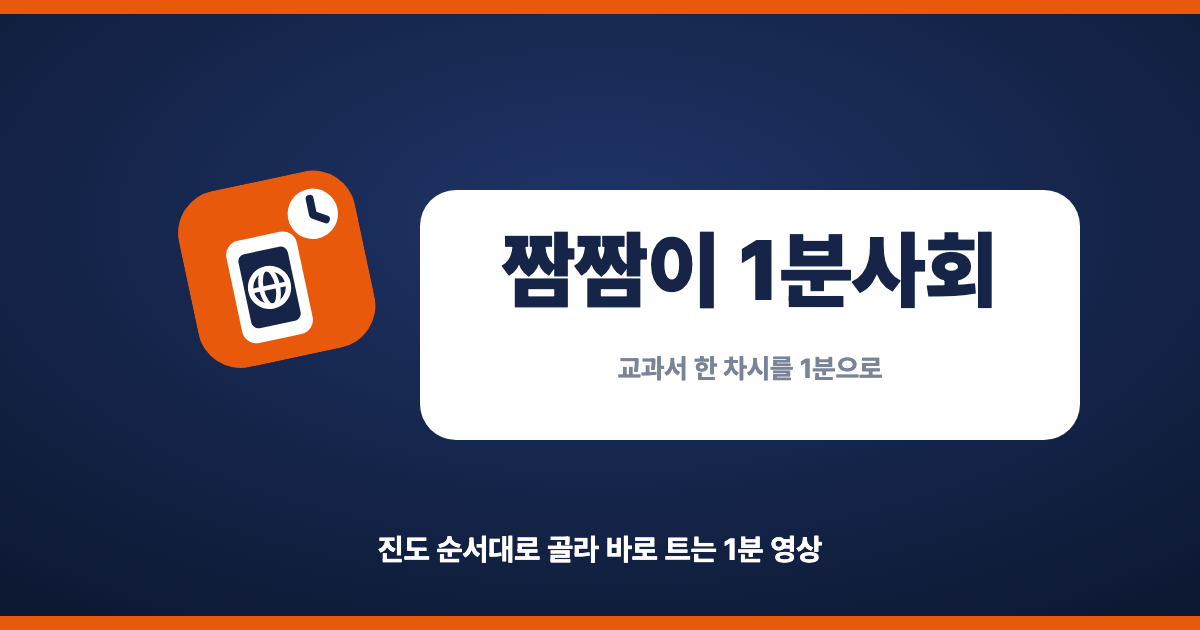
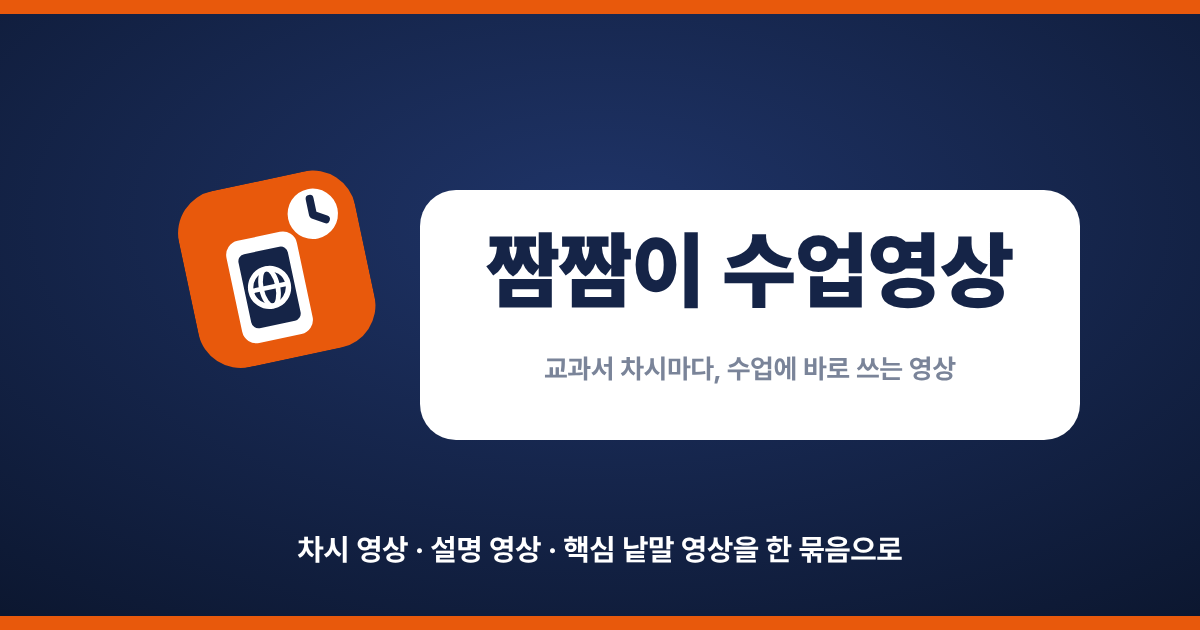
feat(1min): 사이트 이름을 '짬짬이 수업영상'으로 — 수업용 영상 자료로 주제 변경 (#64)
차시마다 설명 영상(16:9, 5~8분)과 핵심 낱말 영상이 붙으면서 이 사이트는
자투리 시간에 트는 1분 영상 모음이 아니라 차시 수업 안에서 쓰는 영상 자료가 됐다.
이름과 소개 문구를 그 쓰임에 맞춘다.

- 이름: 짬짬이 1분사회 → 짬짬이 수업영상
- 한 줄 소개: 교과서 차시마다, 수업에 바로 쓰는 영상
- 제목·설명·공유 미리보기(og/twitter)·manifest·헤더·띠·꼬리말·README
- 공유 카드(og-image)를 gen-og 로 다시 굽고 og:image 에 ?v=2
- 재생목록의 차시 영상 설명 '차시 전체를 1분으로' → '차시 내용을 1분으로 요약'
  ('훑어보기'는 사이트 글꼴 서브셋에 '훑'이 없어 쓰지 않았다)

그대로 둔 것: 주소 jjam-1min(즐겨찾기), 브라우저 저장 키 jjam1min:*(선생님들이
고른 출판사·학년이 풀리지 않게), data-site="1min", 유튜브 채널 이름(실제 채널명).

헤더 바로가기 이름(game/shared → 일곱 사이트 모두 배포)과 모아보기 카드(home/,
고치는 즉시 배포)는 이 사이트 발행을 확인한 뒤 따로 바꾼다(CLAUDE.md 규칙 2).

Claude-Session: https://claude.ai/code/session_011ChbLu6m5zLFMio2mJUXn4

Changed region(s): [[0.4008, 0.3619, 0.8633, 0.5127], [0.2467, 0.8444, 0.7708, 0.9048], [0.4317, 0.5429, 0.8017, 0.6032]]

diff --git a/1min/index.html b/1min/index.html
@@ -3,22 +3,22 @@
 <head>
   <meta charset="UTF-8" />
   <meta name="viewport" content="width=device-width, initial-scale=1.0" />
-  <title>짬짬이 1분사회 | 교과서 한 차시를 1분으로</title>
-  <meta name="description" content="교과서 차시를 1분 영상으로. 진도 순서대로 골라 수업 도입이나 자투리 시간에 바로 트는 선생님 전용 1분 영상 모음" />
+  <title>짬짬이 수업영상 | 교과서 차시마다, 수업에 바로 쓰는 영상</title>
+  <meta name="description" content="교과서 진도 순서대로 차시를 고르면 그 차시 수업에 쓸 영상이 한 묶음으로 나옵니다. 차시 영상·설명 영상·핵심 낱말 영상을 이어서 바로 트세요. 설치·로그인 없음." />
   <meta property="og:type" content="website" />
   <meta property="og:site_name" content="짬짬이 교실" />
   <meta property="og:locale" content="ko_KR" />
-  <meta property="og:title" content="짬짬이 1분사회 — 교과서 한 차시를 1분으로" />
-  <meta property="og:description" content="교과서 차시를 1분 영상으로. 진도 순서대로 골라 수업 도입이나 자투리 시간에 바로 트세요. 설치·로그인 없음." />
+  <meta property="og:title" content="짬짬이 수업영상 — 교과서 차시마다, 수업에 바로 쓰는 영상" />
+  <meta property="og:description" content="교과서 진도 순서대로 차시를 고르면 그 차시 수업에 쓸 영상이 한 묶음으로 나옵니다. 차시 영상·설명 영상·핵심 낱말 영상을 이어서 바로 트세요. 설치·로그인 없음." />
   <meta property="og:url" content="https://shway81-droid.github.io/jjam-1min/" />
-  <meta property="og:image" content="https://shway81-droid.github.io/jjam-1min/og-image.png" />
+  <meta property="og:image" content="https://shway81-droid.github.io/jjam-1min/og-image.png?v=2" />
   <meta property="og:image:width" content="1200" />
   <meta property="og:image:height" content="630" />
-  <meta property="og:image:alt" content="짬짬이 1분사회 — 교과서 한 차시를 1분으로" />
+  <meta property="og:image:alt" content="짬짬이 수업영상 — 교과서 차시마다, 수업에 바로 쓰는 영상" />
   <meta name="twitter:card" content="summary_large_image" />
-  <meta name="twitter:title" content="짬짬이 1분사회 — 교과서 한 차시를 1분으로" />
-  <meta name="twitter:description" content="교과서 차시를 1분 영상으로. 진도 순서대로 골라 바로 트세요." />
-  <meta name="twitter:image" content="https://shway81-droid.github.io/jjam-1min/og-image.png" />
+  <meta name="twitter:title" content="짬짬이 수업영상 — 교과서 차시마다, 수업에 바로 쓰는 영상" />
+  <meta name="twitter:description" content="진도 순서대로 차시를 고르면, 그 차시 수업에 쓸 영상이 한 묶음으로." />
+  <meta name="twitter:image" content="https://shway81-droid.github.io/jjam-1min/og-image.png?v=2" />
   <link rel="icon" href="favicon.svg" />
   <link rel="manifest" href="manifest.json" />
   <link rel="apple-touch-icon" href="assets/icons/apple-touch-icon.png" />
@@ -73,11 +73,11 @@
   </svg>
 
   <header class="topbar">
-    <a class="brand" href="./" aria-label="짬짬이 1분사회 홈">
+    <a class="brand" href="./" aria-label="짬짬이 수업영상 홈">
       <img class="brand-logo" src="favicon.svg" alt="" width="40" height="40" />
       <span class="brand-text">
-        <b>짬짬이 1분사회</b>
-        <small>교과서 한 차시를 1분으로</small>
+        <b>짬짬이 수업영상</b>
+        <small>교과서 차시마다, 수업에 바로 쓰는 영상</small>
       </span>
     </a>
     <div class="topbar-actions">
@@ -89,7 +89,7 @@
 
   <div class="cta-strip">
     <p class="cta-copy">
-      <b>수업 도입에도, 자투리 시간에도.</b>
+      <b>이 차시 수업에 쓸 영상을 한 번에.</b>
       차시 영상 <b id="ctaCount">0</b>편 · 설명 영상 <b id="ctaExplain">0</b>편 · 핵심 낱말 영상 <b id="ctaWords">0</b>편 · 설치 없음 · 로그인 없음
     </p>
   </div>
@@ -141,7 +141,7 @@
   </main>
 
   <footer class="footer">
-    <p>짬짬이 1분사회 · 교과서 차시를 1분으로 · <span id="footCount"></span></p>
+    <p>짬짬이 수업영상 · 교과서 차시마다, 수업에 바로 쓰는 영상 · <span id="footCount"></span></p>
     <p class="footer-note">영상은 NotebookLM 으로 만들고 사람이 교과서와 대조했습니다. 화면과 내레이션은 AI 생성물입니다.</p>
   </footer>
 

diff --git a/1min/app.js b/1min/app.js
@@ -1,11 +1,11 @@
 /* ===================================================================
-   짬짬이 1분사회 — 런처
+   짬짬이 수업영상 — 런처 (예전 이름 짬짬이 1분사회, 주소는 jjam-1min 그대로)
    ===================================================================
    탐색축은 교과서 진도 순서다(단원 → 차시). 선생님이 찾는 것은 "내일 나가는
    그 차시" 하나이고, 그건 필터보다 목차가 빠르다.
 
    한 차시에는 영상이 여러 편 있다.
-     · 차시 영상   — 차시 전체를 1분으로 (youtubeId)
+     · 차시 영상   — 차시 내용을 1분으로 요약 (youtubeId)
      · 설명 영상   — 차시 전체를 가로 화면으로 자세히 (explainVideo, 16:9)
      · 핵심 낱말 영상 — 그 차시의 핵심 낱말 3개를 1분씩 (wordVideos)
    그래서 목록은 차시마다 한 줄로 그리고, 카드를 열지 않아도 낱말이 보이게 한다.
@@ -462,8 +462,8 @@
 
   function playlistOf(L) {
     var X = explain(L);
-    return [{ kind: 'lesson', id: L.youtubeId, sec: L.seconds, title: '차시 영상', sub: '차시 전체를 1분으로', meaning: L.summary }]
-      .concat(X ? [{ kind: 'explain', id: X.youtubeId, sec: X.seconds, title: '설명 영상', sub: '차시 전체를 가로 화면으로 자세히', wide: true }] : [])
+    return [{ kind: 'lesson', id: L.youtubeId, sec: L.seconds, title: '차시 영상', sub: '차시 내용을 1분으로 요약', meaning: L.summary }]
+      .concat(X ? [{ kind: 'explain', id: X.youtubeId, sec: X.seconds, title: '설명 영상', sub: '차시 내용을 가로 화면으로 자세히', wide: true }] : [])
       .concat(words(L).map(function (w) {
         return { kind: 'word', id: w.youtubeId, sec: w.seconds, title: w.word, sub: w.meaning || '', meaning: w.meaning || '' };
       }));

diff --git a/1min/style.css b/1min/style.css
@@ -1,5 +1,5 @@
 /* ===================================================================
-   짬짬이 1분사회 — 클린 클래스룸 + 소프트 3D
+   짬짬이 수업영상 — 클린 클래스룸 + 소프트 3D
    짬짬이 게임·영상의 디자인 언어를 잇는다:
    네이비 헤더 + 밝은 본문(#F5F7FA) + 화이트 카드 + 포인트 색
    이 사이트의 포인트 색은 번트 오렌지(#E8590C) — 다른 짬짬이와 구별된다.

diff --git a/1min/sw.js b/1min/sw.js
@@ -1,5 +1,5 @@
 /* ===================================================================
-   짬짬이 1분사회 — 오프라인 지원 서비스 워커
+   짬짬이 수업영상 — 오프라인 지원 서비스 워커
    ===================================================================
    전략 (짬짬이 영상과 같다)
    - 차시 목록(data/*.json) · 런처 HTML → Network-First

diff --git a/1min/README.md b/1min/README.md
@@ -1,24 +1,42 @@
-# ⏱ 짬짬이 1분사회
+# ⏱ 짬짬이 수업영상
 
-**내일 나가는 그 차시, 1분 영상으로 열어 주세요.** — 교과서 차시를 1분 세로 영상으로 압축한 선생님 전용 모음.
+**교과서 차시마다, 수업에 바로 쓰는 영상.** — 차시를 고르면 그 차시 수업에 쓸 영상이 한 묶음으로 나오는 선생님 전용 모음.
 
-[짬짬이 영상](https://shway81-droid.github.io/jjam-video/)이 "남은 시간에 뭐 틀지"를 해결한다면, 이 사이트는 **"지금 나가는 차시"**를 해결합니다. 그래서 필터를 늘어놓지 않고 **교과서 진도 순서**로 단원 → 차시를 그립니다. 선생님이 찾는 것은 차시 하나이고, 그건 필터보다 목차가 빠릅니다.
+> 예전 이름은 **짬짬이 1분사회**입니다. 처음에는 차시를 1분으로 줄여 수업 도입이나 자투리 시간에 트는 사이트였는데,
+> 설명 영상·핵심 낱말 영상이 붙으면서 **수업 안에서 쓰는 영상 자료**가 되어 이름을 바꿨습니다(2026-10).
+> 주소(`jjam-1min`)·유튜브 채널 핸들(`@jjam1min`)·브라우저 저장 키(`jjam1min:*`)는 즐겨찾기와 저장된 설정 때문에 그대로입니다.
+
+[짬짬이 영상](https://shway81-droid.github.io/jjam-video/)이 "남은 시간에 뭐 틀지"를 해결한다면, 이 사이트는 **"지금 가르치는 차시"**를 해결합니다. 그래서 필터를 늘어놓지 않고 **교과서 진도 순서**로 단원 → 차시를 그립니다. 선생님이 찾는 것은 차시 하나이고, 그건 필터보다 목차가 빠릅니다.
+
+## 🎞 한 차시에 들어 있는 영상
+
+차시를 열면 아래 영상이 **한 재생목록**으로 묶여 있고, 이어 보기를 켜 두면 끝날 때마다 다음 편으로 넘어갑니다.
+
+| 영상 | 길이 | 화면 | 쓰임 |
+|---|---|---|---|
+| **차시 영상** | 1분 안팎 | 세로(9:16) | 차시 내용을 1분으로 요약 |
+| **설명 영상** | 5~8분 | 가로(16:9) | 차시 내용을 자세히 설명 |
+| **핵심 낱말 영상** | 1분씩 | 세로(9:16) | 그 차시의 핵심 낱말을 하나씩 |
+
+설명 영상·핵심 낱말 영상은 차시마다 차례로 채우는 중이라 아직 없는 차시도 있습니다.
 
 빌드 단계 없는 순수 정적 사이트입니다. 설치·로그인 없이 브라우저에서 바로 동작합니다.
 
 ## ✨ 기능
 
-- **📖 교과서 진도 순서** — 단원 아래 차시 카드를 1번부터. 카드에 차시 번호와 길이가 찍혀 있습니다
+- **📖 교과서 진도 순서** — 출판사·교과·학년을 고르면 단원 아래 차시가 1번부터 한 줄씩. 차시마다 영상 길이가, 여러 편인 차시에는 편수와 전체 길이가 찍혀 있습니다
+- **▶ 차시 재생목록** — 차시 영상 → 설명 영상 → 핵심 낱말 영상을 이어서. ← → 키로도 넘깁니다
+- **🔤 낱말 사전** — 학년·학기의 핵심 낱말을 가나다순으로 모으고, 어느 교과서 몇 차시에 나오는지 함께 보여 줍니다
 - **🔍 검색** — 차시명·주제·핵심 낱말·단원 제목으로 찾기 ("고인돌", "3단원", "7차시" 모두 됩니다)
-- **📱 세로 그대로 재생** — 9:16 숏폼을 잘라내거나 레터박스 없이 가운데에 띄웁니다. 옆에 차시명·요약·핵심 낱말이 붙습니다
+- **📱 화면 비율 그대로 재생** — 세로 영상은 잘라내거나 레터박스 없이 가운데에, 가로 영상은 넓게. 옆에 차시명·요약·관련 낱말이 붙습니다
 - **📺 전자칠판 최적화** — 1280px 이상에서 글씨·카드 자동 확대, 전체화면 버튼
 - **📴 오프라인 동작** — PWA + 서비스 워커. 목록·검색은 인터넷 없이도 동작합니다.
   *영상 재생은 유튜브를 부르므로 인터넷이 필요합니다.*
 
 ## 🎬 영상은 어떻게 만드나
 
-교과서 차시 PDF를 **NotebookLM 숏폼 개요(짧은 버전, 9:16)** 에 넣어 1분 영상을 만들고,
-사람이 교과서와 대조한 뒤 유튜브([`짬짬이 1분사회` @jjam1min](https://www.youtube.com/@jjam1min))에 Shorts 로 올립니다.
+교과서 차시 PDF를 **NotebookLM** 에 넣어 영상을 만들고(차시·낱말 영상은 숏폼 9:16, 설명 영상은 가로 16:9),
+사람이 교과서와 대조한 뒤 유튜브([`짬짬이 1분사회` @jjam1min](https://www.youtube.com/@jjam1min))에 올립니다.
 이 저장소에는 **영상 파일이 없습니다** — 유튜브가 호스팅이고 여기는 영상 ID만 듭니다.
 
 생성 절차와 실측 기록은 이 저장소 밖(로컬 작업 폴더)에 있습니다.
@@ -95,7 +113,7 @@ node scripts/check-sources.mjs       # 내 채널의 살아 있는 영상인지 
 브라우저 탭·헤더 로고·앱 아이콘이 모두 **`favicon.svg` 한 파일**에서 나옵니다.
 
 짬짬이 사이트는 **같은 틀 + 다른 알맹이**입니다 — 둥근 사각형 타일과 우상단 배지(흰 원 + 네이비 시계)는 같고, 바탕색과 가운데 심볼만 다릅니다.
-게임 앰버 `#FFB703` · 퀴즈 그린 `#12A57C` · 영상 스카이 `#4FA8E8` · 이야기 퍼플 `#6145B5` · 낱말 로즈 `#E4576E` · **1분사회 번트오렌지 `#E8590C`**.
+게임 앰버 `#FFB703` · 퀴즈 그린 `#12A57C` · 영상 스카이 `#4FA8E8` · 이야기 퍼플 `#6145B5` · 낱말 로즈 `#E4576E` · **수업영상 번트오렌지 `#E8590C`**.
 
 홈 화면용 PNG는 `assets/icons/`에 있습니다. `og-image.png`·`og-image.svg`는 저장소 루트의 `scripts/gen-og.mjs`가 `favicon.svg`에서 만듭니다.
 

diff --git a/CLAUDE.md b/CLAUDE.md
@@ -5,7 +5,7 @@
 ```
 game/   퀴즈 아닌 미니게임 105종      quiz/   문답형만 모은 자매 버전
 video/  짧은 교육 영상                story/  생각하고 말하기
-word/   입으로 외치는 말놀이          1min/   교과서 차시를 1분 영상으로
+word/   입으로 외치는 말놀이          1min/   수업영상 — 차시 수업에 쓰는 영상 (옛 1분사회)
 draw/   한 획씩 따라 그리기 (2026-10-01 합류)
 home/   짬짬이 교실 모아보기 — 일곱 사이트를 모은 첫 화면 (2026-10-01)
 ```
